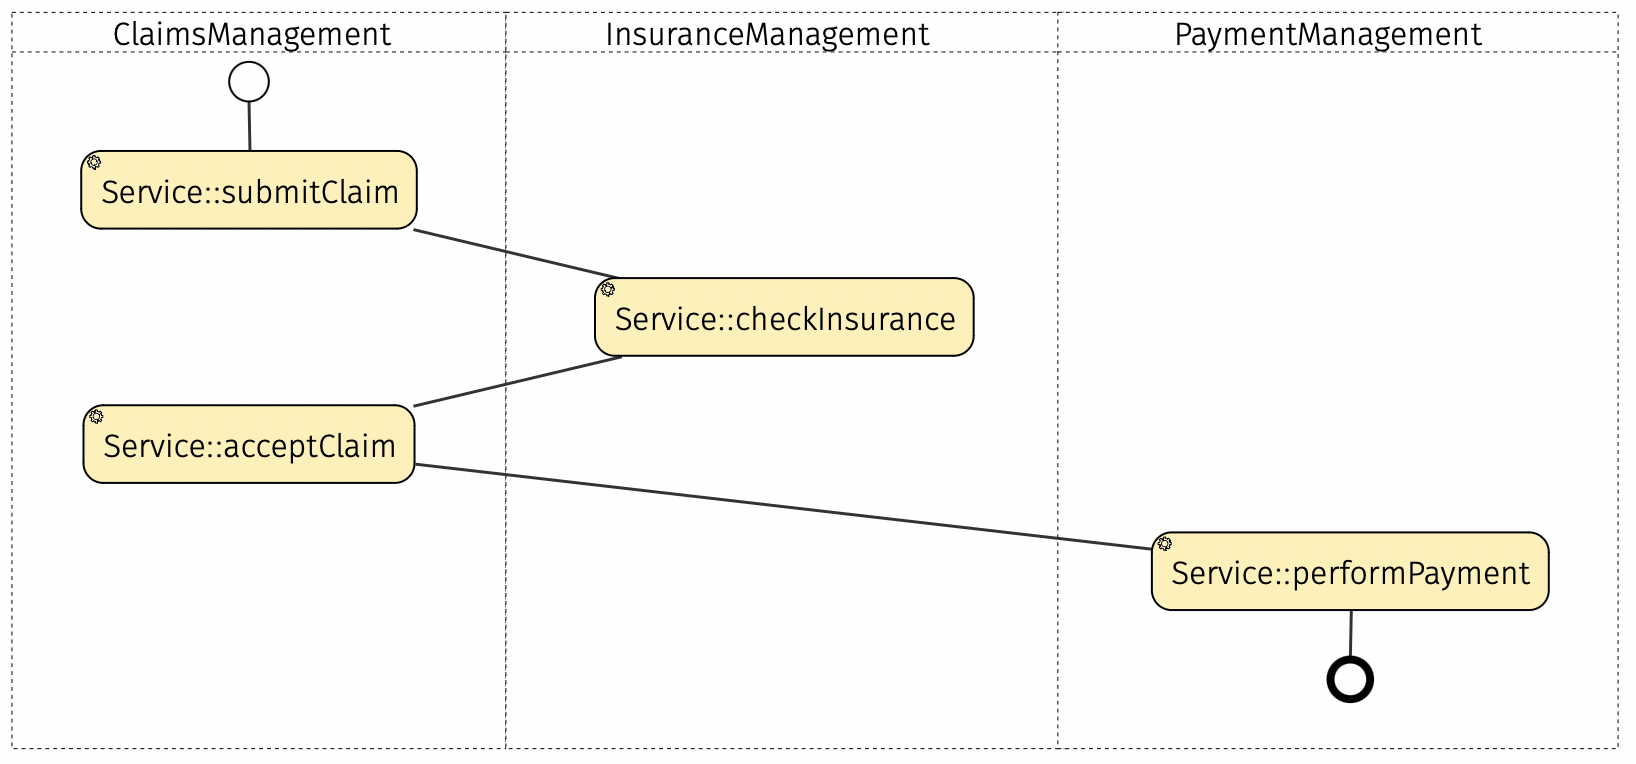
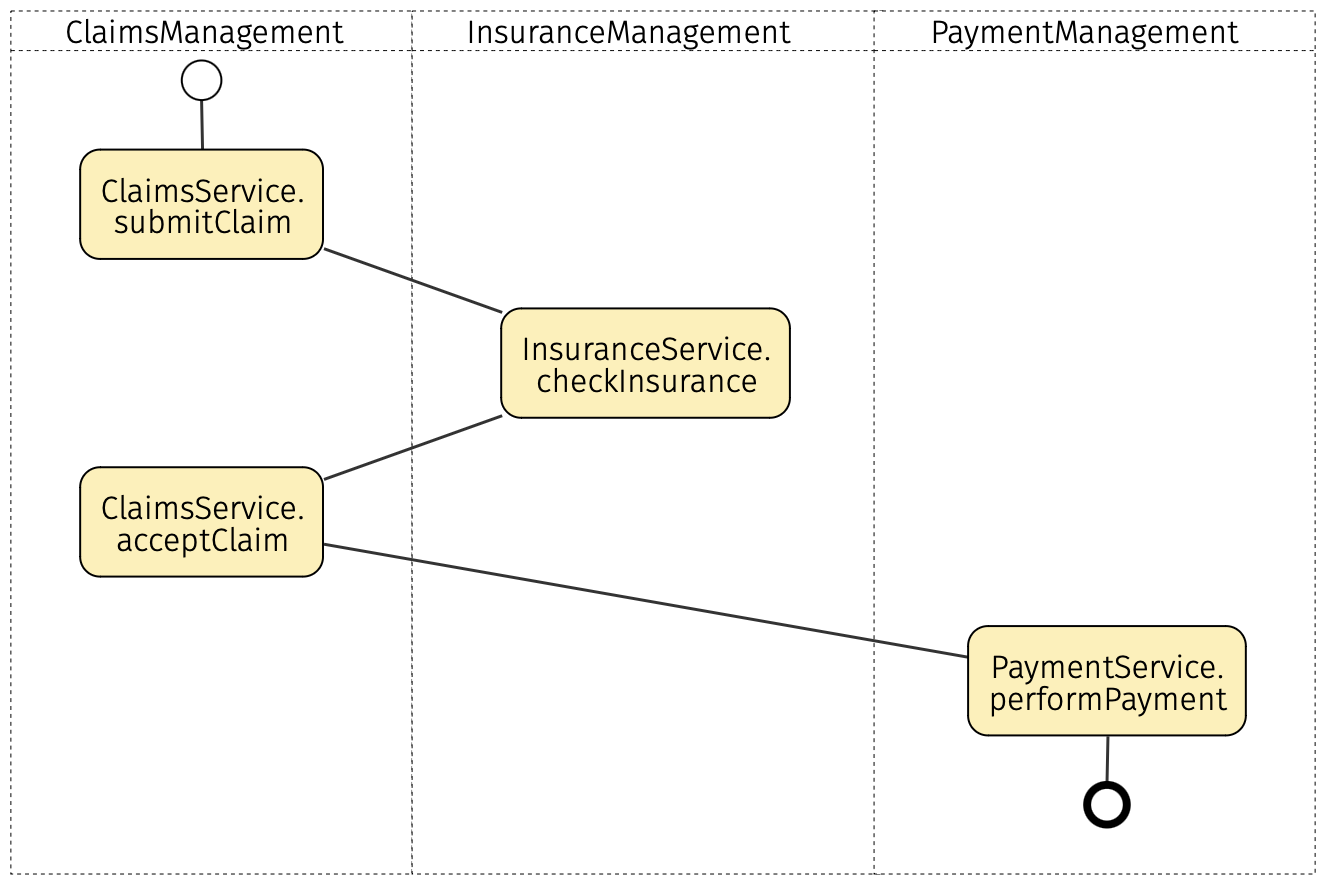
Fix example format

Changed region(s): [[0.0, 0.0, 0.9894, 0.9332], [0.0, 0.0301, 1.0, 0.9935], [0.3092, 0.0602, 0.3401, 0.0903]]

diff --git a/_docs/language-reference/application-and-process-layer.md b/_docs/language-reference/application-and-process-layer.md
@@ -422,13 +422,13 @@ PaymentManagement::PaymentApplicationService::performPayment;
 
 </pre></div>
 
-_Note:_ The type of workflow coordination (orchestration or choreography) is not explicitly supported in the syntax, but can still be modelled by assuming that the Bounded Context where the coordination is defined serves as either the orchestrator, or the start of the choreography.
+_Note:_ The type of workflow coordination (orchestration or choreography) is not explicitly supported in the syntax, but can still be modeled by assuming that the Bounded Context where the coordination is defined serves as either the orchestrator, or the start of the choreography.
 
 ### Coordination Grammar
 
-In CML, coordinations are composed of coordination steps. Each coordination step represents a call to an application service operation that can be defined inside the same Bounded Context, or in an outer Bounded Context.
+In CML, coordinations are composed of coordination steps. Each coordination step represents a call to an application service operation, which can be defined inside the same Bounded Context or in an outer Bounded Context.
 
-To correcly reference an application service operation, a coordination step is divided into three segments, seperated by the `::` symbol:
+To correctly reference an application service operation, a coordination step is divided into three segments, separated by the `::` symbol:
 
 - The name of the Bounded Context where the operation is defined;
 - The name of the application service where the operation is defined;
@@ -443,12 +443,12 @@ ClaimsManagement::ClaimsApplicationService::submitClaim;
 
 Each of the three segments of a coordination step is also subject to certain syntax rules to maintain the integrity of the model. Respectively, these are:
 
-- A reference to an outer Bouned Context must be reachable by Context Map relationships;
+- A reference to an outer Bounded Context must be reachable by Context Map relationships.
 - A reference to a service must originate from an application layer service;
 - A reference to an operation should be unique within the service.
 
 ### Coordination visualization in BPMN
 
-Like flows, coordinations can also be visuallized with [BPMN Sketch Miner](https://www.bpmn-sketch-miner.ai/). The following example shows the output when using Context Mapper’s [BPMN Sketch Miner generator](/docs/bpmn-sketch-miner/) on coordinations:
+Like flows, coordinations can also be visualized with [BPMN Sketch Miner](https://www.bpmn-sketch-miner.ai/). The following example shows the output when using Context Mapper’s [BPMN Sketch Miner generator](/docs/bpmn-sketch-miner/) on coordinations:
 
 ![BPMN Sketch Miner Example](/img/bpmn-sketch-miner-example-2.png)
